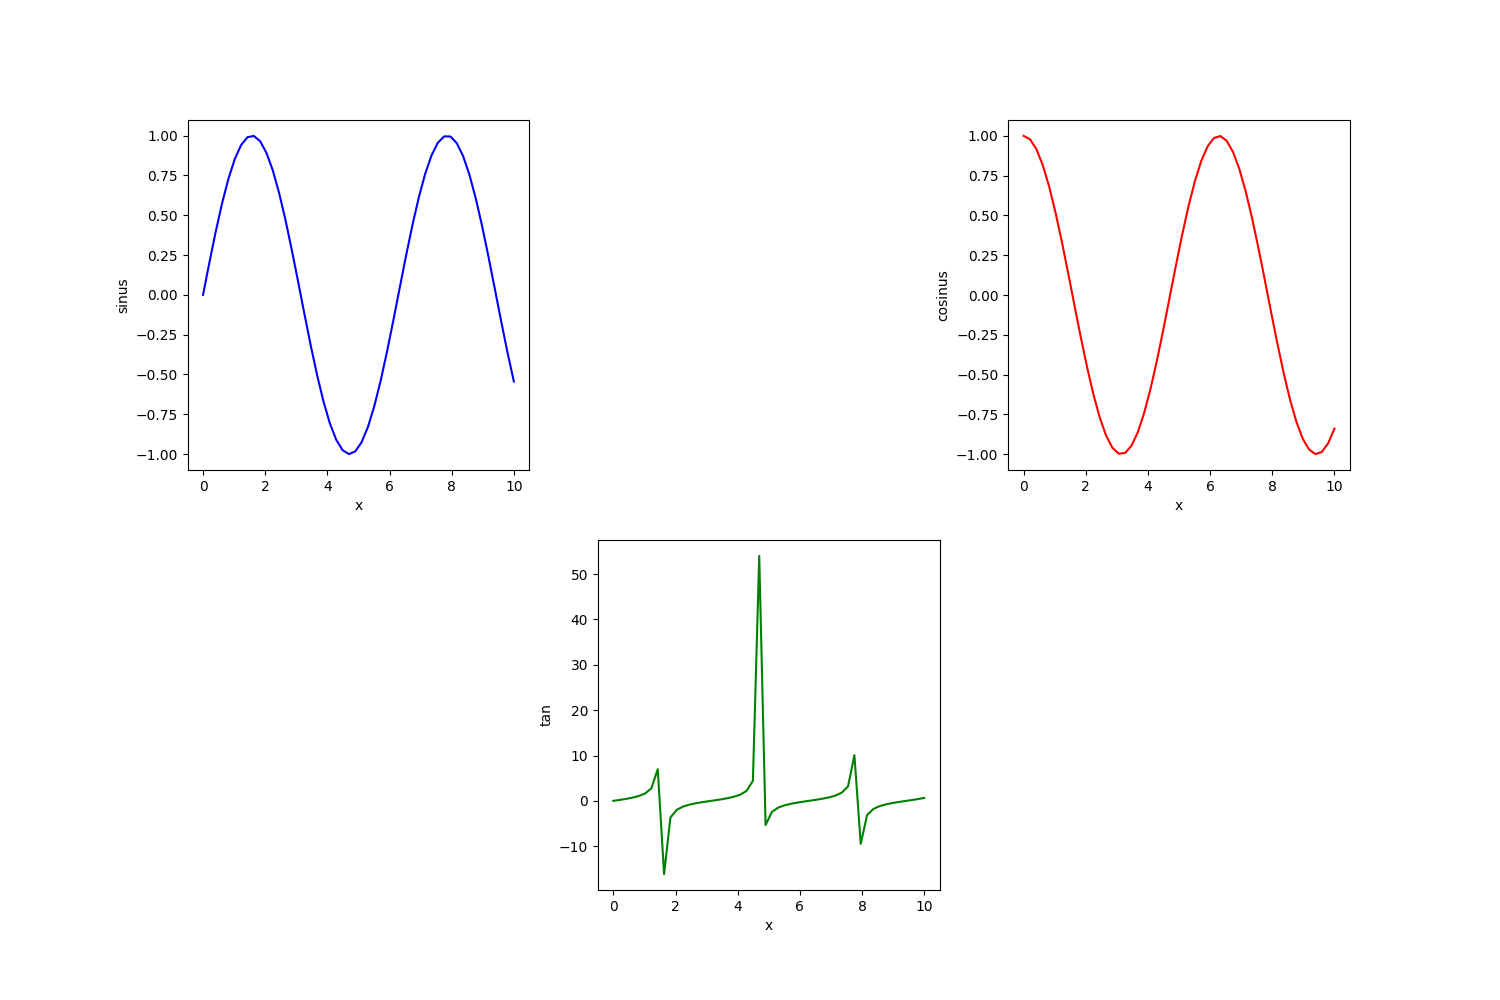
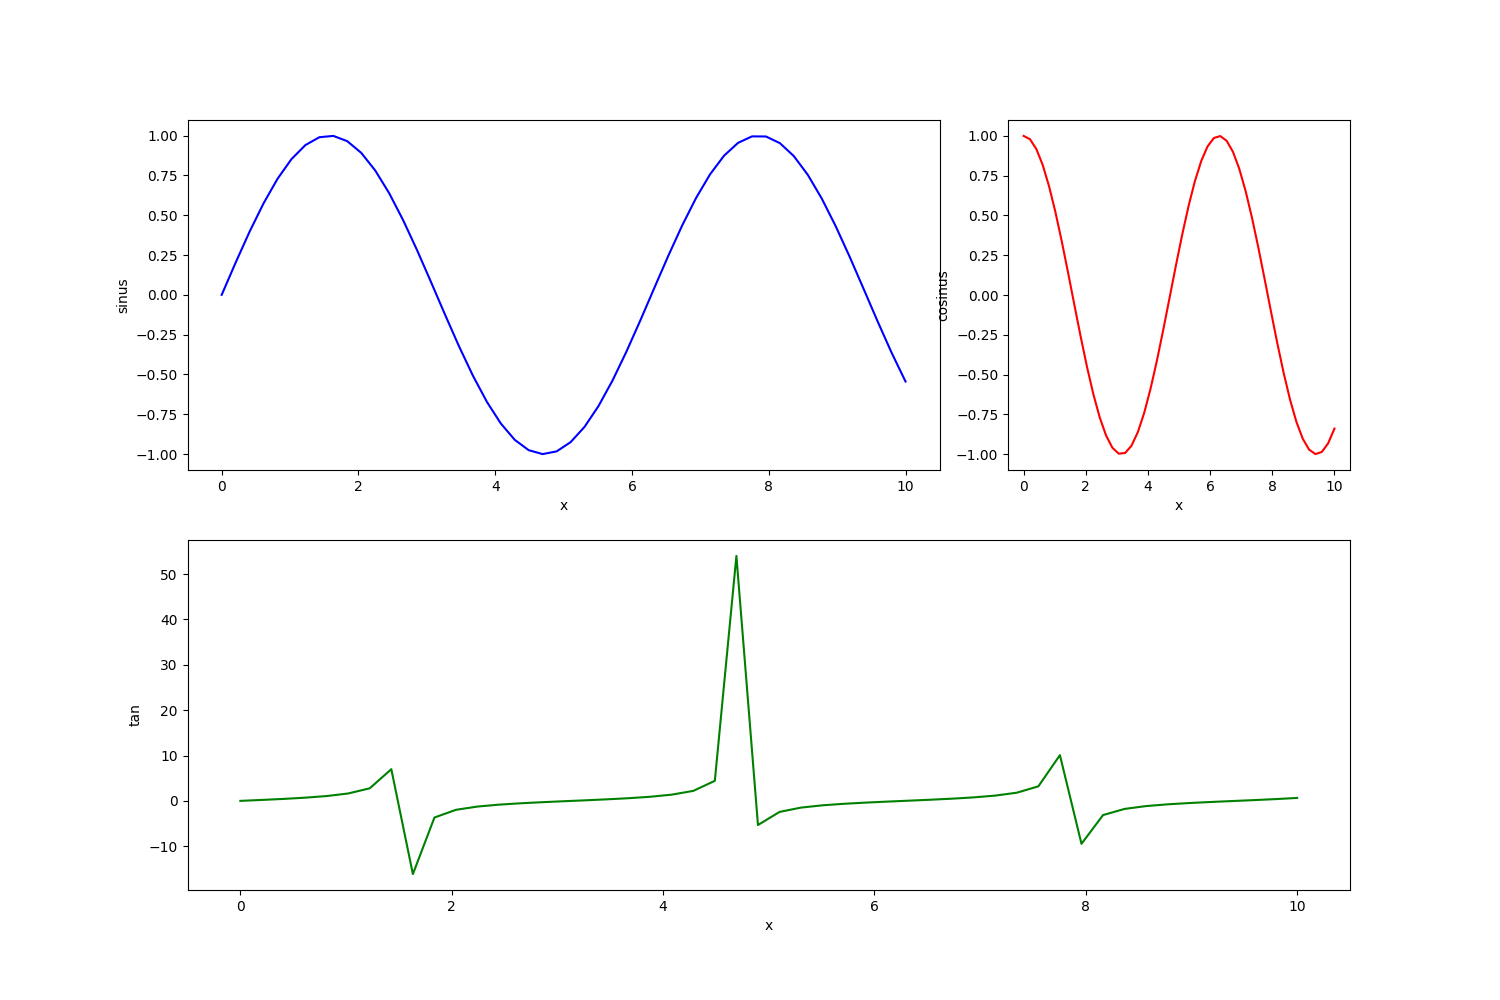
change organization graphs

diff --git a/Day3/plot.py b/Day3/plot.py
@@ -8,7 +8,7 @@ cos = np.cos(x)
 
 
 plt.figure(figsize=(15,10))
-plt.subplot(2,3,1)
+plt.subplot(2,3,(1,2))
 plt.plot(x,sin,color='blue')
 plt.xlabel('x')
 plt.ylabel('sinus')
@@ -21,7 +21,7 @@ plt.ylabel('cosinus')
 plt.grid=True
 
 
-plt.subplot(2,3,5)
+plt.subplot(2,3,(4,6))
 plt.plot(x,tan,color='green')
 plt.xlabel('x')
 plt.ylabel('tan')
